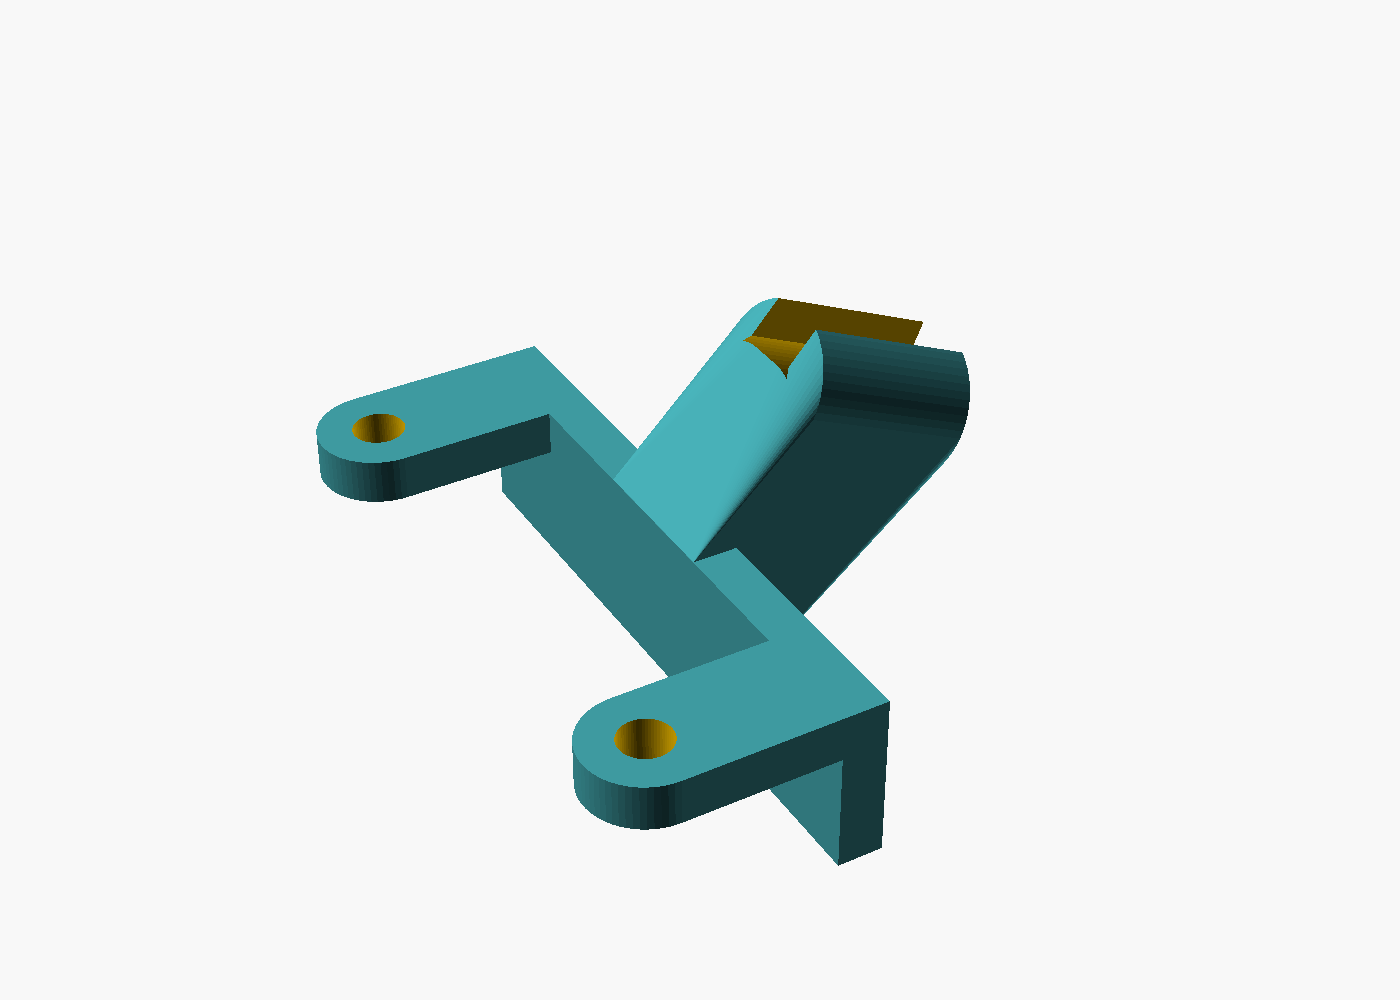
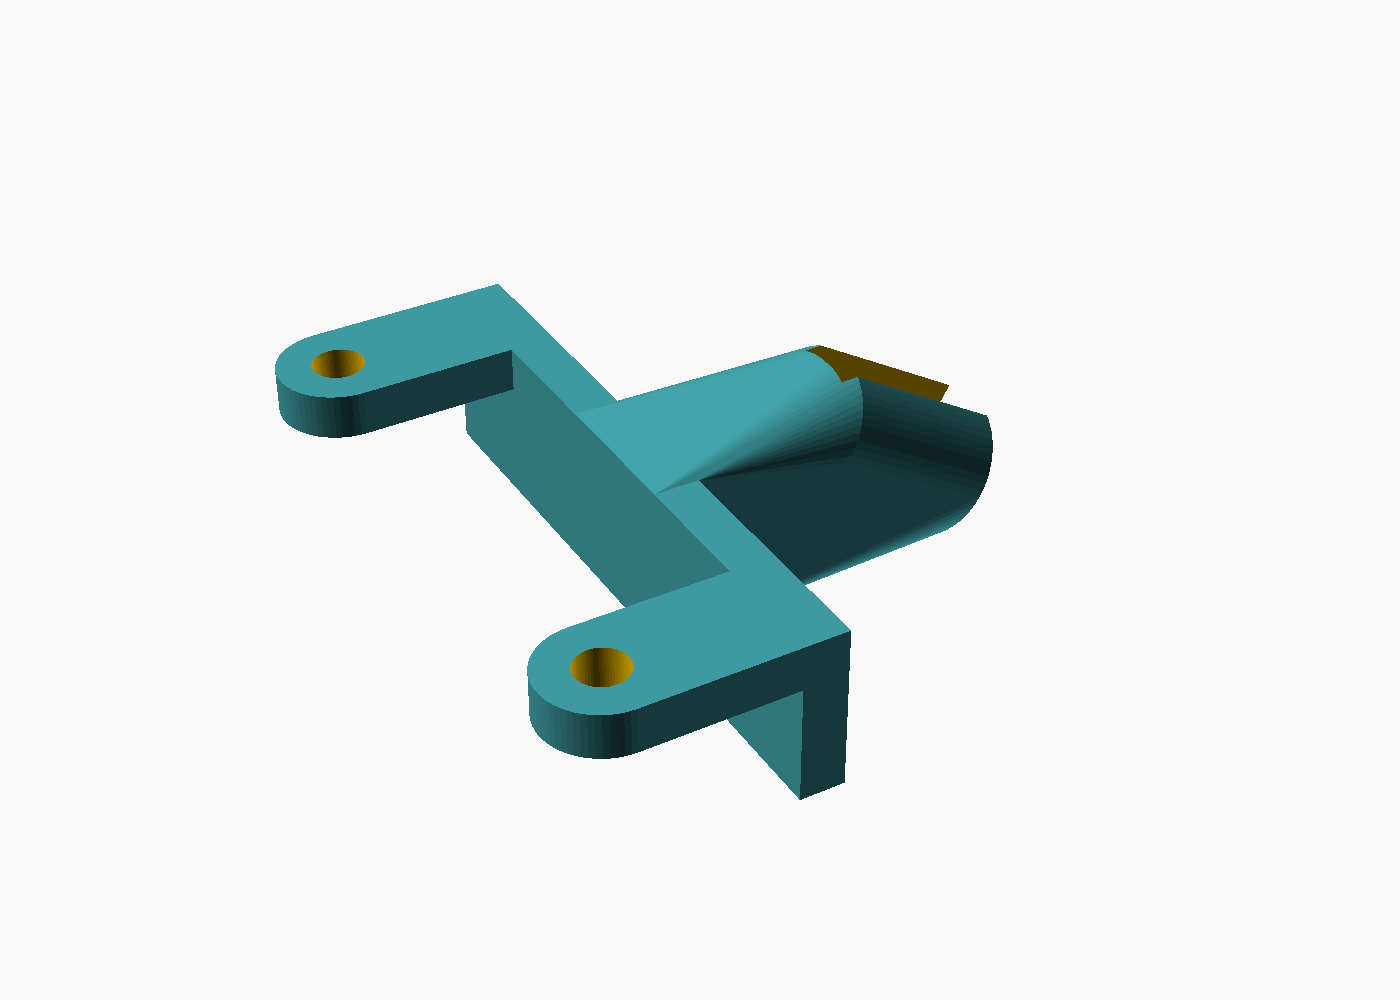
Open scope bore past the collar, cam_drop from mount underside, restore measured presets

Changed region(s): [[0.1843, 0.279, 0.7064, 0.868], [0.3686, 0.496, 0.43, 0.589]]

diff --git a/README.md b/README.md
@@ -109,8 +109,8 @@ Open a section in the Customizer, drag a slider or type a number, then press **F
 
 | Slider | Meaning |
 |---|---|
-| `cam_offset` | how far the camera sits out to the right of the module |
-| `cam_drop` | how far the camera sits below the module's bottom face |
+| `cam_offset` | how far the lens center sits out to the right of the module |
+| `cam_drop` | how far the lens reaches below the mount's underside; 0 = flush with the mount |
 | `aim_at_focus` | ticked: the camera points at the focus point automatically |
 | `cam_tilt` | manual angle, only used when `aim_at_focus` is off |
 
@@ -148,6 +148,10 @@ air-assist stream.
 1. Click **+** next to the preset dropdown and give it a name, e.g. `xTool D1 - clip`.
 2. Save the design with **File → Save** (Ctrl+S). OpenSCAD writes your preset into
    `endoscope_mount.json`.
+
+OpenSCAD reads `endoscope_mount.json` only when it opens the design, and rewrites it on
+every save. If the file changed in the meantime (e.g. after `git pull`), close OpenSCAD
+without saving and reopen the design, otherwise the old presets overwrite the new ones.
 
 Want to share it? Send the block for your preset from `endoscope_mount.json`, and it can be
 added to the list above.
